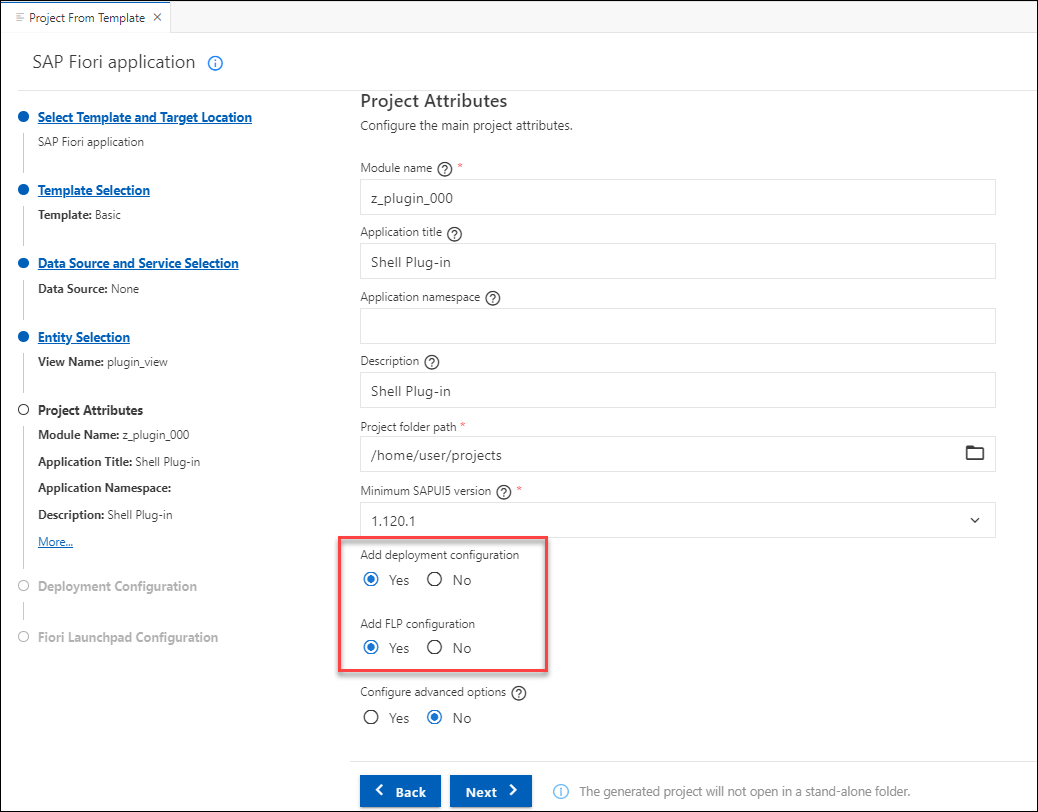
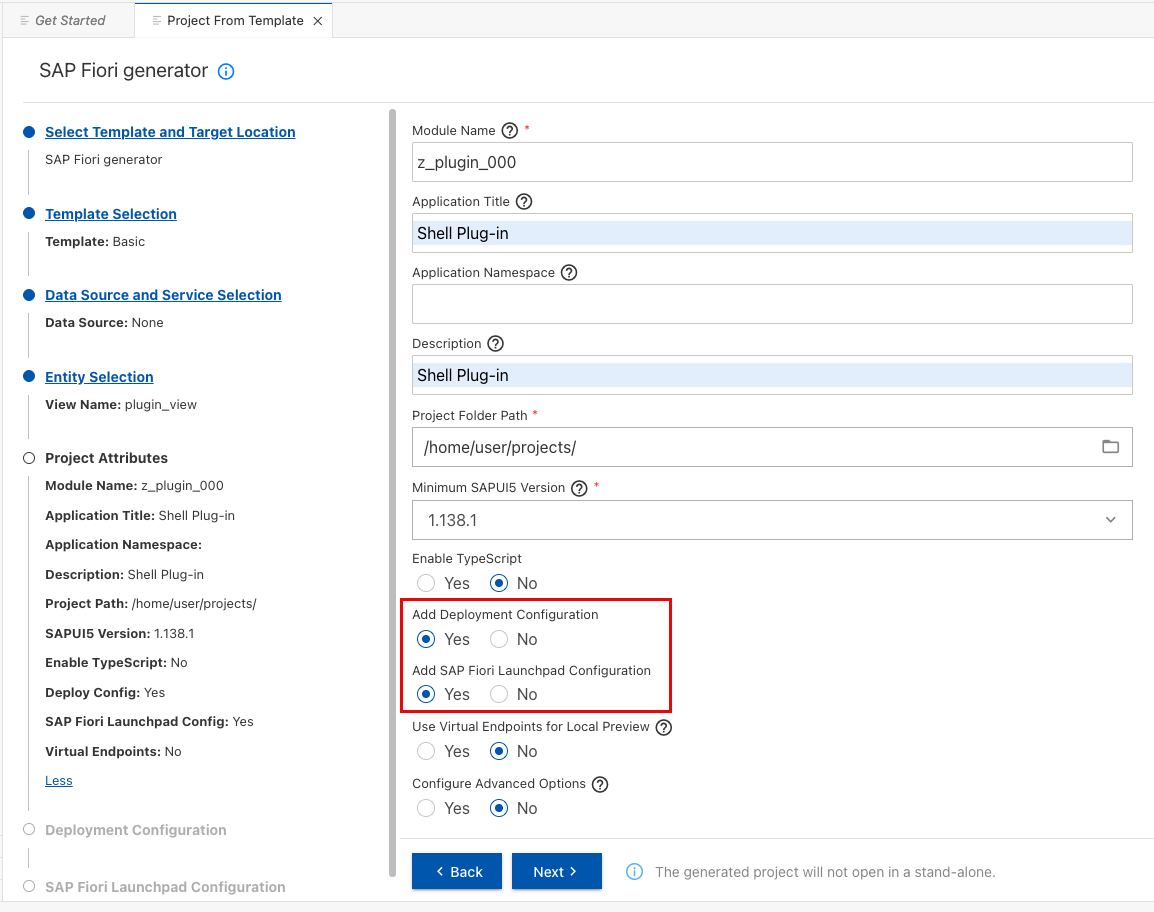
Check 2

diff --git a/tutorials/abap-environment-shell-plugin/abap-environment-shell-plugin.md b/tutorials/abap-environment-shell-plugin/abap-environment-shell-plugin.md
@@ -12,19 +12,21 @@ parser: v2
 ---
 
 ## Prerequisites
- - You have access to a SAP BTP Subaccount with a SAP Business Application Studio subscription.
- - You have access to a SAP BTP ABAP Environment in a Cloud Foundry space in the subaccount.
- - You have connected SAP Business Application Studio to your SAP BTP ABAP Environment via destination.
- - You have a user in the subaccount, with `Business_Application_Studio_Developer` role collection.
- - You are a member of the Cloud Foundry space where your SAP BTP ABAP Environment resides, and you have **Space Developer** role.
- - You have a user in your SAP BTP ABAP Environment with the following roles: `SAP_BR_ADMINISTRATOR` and `SAP_BR_DEVELOPER`.
- - You are connected to your SAP BTP ABAP Environment in the ABAP Development Tool (ADT) in Eclipse.
+
+- You have access to a SAP BTP Subaccount with a SAP Business Application Studio subscription.
+- You have access to a SAP BTP ABAP Environment in a Cloud Foundry space in the subaccount.
+- You have connected SAP Business Application Studio to your SAP BTP ABAP Environment via destination.
+- You have a user in the subaccount, with `Business_Application_Studio_Developer` role collection.
+- You are a member of the Cloud Foundry space where your SAP BTP ABAP Environment resides, and you have **Space Developer** role.
+- You have a user in your SAP BTP ABAP Environment with the following roles: `SAP_BR_ADMINISTRATOR` and `SAP_BR_DEVELOPER`.
+- You are connected to your SAP BTP ABAP Environment in the ABAP Development Tool (ADT) in Eclipse.
 
 >This tutorial was written for SAP BTP ABAP Environment. However, you should be able to use it in SAP S/4HANA Cloud Environment in the same way.
 
 >Throughout this tutorial, you will create various development objects and UI components. Wherever the suffix `###` or `000` is used, please replace it with your initials or group number.
 
 ## You will learn
+
 - How to create a custom shell plug-in.
 - How to deploy the shell plug-in to your SAP BTP ABAP Environment as part of a SAP Fiori Application.
 - How to create a Business Catalog and Business Role to regulate access to the SAP Fiori Application.
@@ -103,17 +105,19 @@ The shell plug-in will be deployed to your SAP BTP ABAP Environment as an SAP Fi
 
     ![Create SAP Fiori application - Project attributes](create_SAPUI5_project_5.png)
 
+    >Ensure that **Use Virtual Endpoints for Local Preview** remains set to **No**.
+
 9. Deployment Configuration: In the **Please choose the target** dropdown menu, select **ABAP**. In the **Destinations** dropdown menu, select the destination that points towards your SAP BTP ABAP Environment. Input for example `z_plugin_###` as name for the **SAPUI5 ABAP Repository** and a  **Deployment description**. In the **Package** field, input the name of the package that you created in ABAP Development Tool in Eclipse in the previous step. Select **Enter manually** and Input the **Transport Request** number you created in the previous step. Click on **Next**.
 
     <!--border-->
     ![Create SAP Fiori application - Deployment configuration](create_SAPUI5_project_6.png)
 
-10. Fiori Launchpad Configuration: In the **Semantic Object** field input `Shell###` and in the **Action** field input `plugin`. Input a **Title** of your choice. Click on **Finish**. The project folder will be generated.
+10. Fiori Launchpad Configuration: In the **Semantic Object** field input `shell###` and in the **Action** field input `plugin`. Input a **Title** of your choice. Click on **Finish**. The project folder will be generated.
 
     <!--border-->
     ![Create SAP Fiori application - Fiori Launchpad Configuration](create_SAPUI5_project_7.png)
 
-    >Make sure to input the fields with the correct cases: `shell` must start with an lower case and `plugin` must start with a lower case.
+    >Make sure to input the fields with the correct cases: `Shell` must start with an upper case and `plugin` must start with a lower case.
 
 ### Adjust your SAPUI5 Project
 
@@ -127,7 +131,7 @@ The application project is automatically initialized with several basic folders,
      - Under the `"sap.app"` configuration adjust the `"type"` property value to `"component"`.
      - Under the `"crossNavigation"` configuration remove the `"title": "{{flpTitle}}"` property and add the property `"hideLauncher": true`.
      - Remove the blocks for the `"routing"` configuration and the `"rootView"` definition.
-     - At the end of the file, behind the third last `}`, insert the following code snippet: `,"sap.flp": {"type": "plugin"}`.
+     - At the end of the file, behind the second last `}`, insert the following code snippet: `,"sap.flp": {"type": "plugin"}`.
      
      At the end your **`mainfest.json`** file should look like the following (certain properties are project-dependent and might therefore have different values for you. For this reason, you should use this code snippet as a guide, and manually adjust your **`mainfest.json`** file (rather than simply copy and paste this code snippet)):
 
@@ -151,9 +155,9 @@ The application project is automatically initialized with several basic folders,
             },
             "crossNavigation": {
                 "inbounds": {
-                "Shell-plugin": {
+                "Shell000-plugin": {
                     "hideLauncher": true,
-                    "semanticObject": "Shell",
+                    "semanticObject": "shell000",
                     "action": "plugin",
                     "signature": {
                     "parameters": {},
@@ -228,13 +232,14 @@ The application project is automatically initialized with several basic folders,
 
     ![Delete view folder content](delete_view_content.png)
 
-5. Open the **`Component.js`** file in the **`webapp`** folder. Delete the entire content of the file, and replace it with the following code:
+5. Open the **`Component.js`** file in the **`webapp`** folder. You should use this code snippet as a guide, and manually adjust your Component.js  file (rather than simply copy and paste this code snippet):
 
     ``` JavaScript
     sap.ui.define([
             "sap/ui/core/UIComponent"
+            "zplugin000/model/models"
         ],
-        function (UIComponent) {
+        function (UIComponent, models) {
             "use strict";
 
             return UIComponent.extend("zplugin###.Component", {
@@ -307,6 +312,8 @@ You can now deploy your SAPUI5 Component on with a basic (empty) shell plug-in t
 1. In Business Application Studio, in the **Application Info** view, click on the **Deploy** tile:
 
     ![Deploy application](deploy_application.png)
+
+    >In case the Deploy tile is not visible in the Application Info, right-click the ui5-deploy.yaml file, select Open in Integrated Terminal, and execute the command **npm run deploy**. 
 
 2. The deployment process will begin. You will be prompted to confirm the deployment by typing `Y`. Once the SAPUI5 Application is successfully deployed to your SAP BTP ABAP Environment, the terminal will return the status:
 `Deployment Successful`. You can now close the terminal window.
